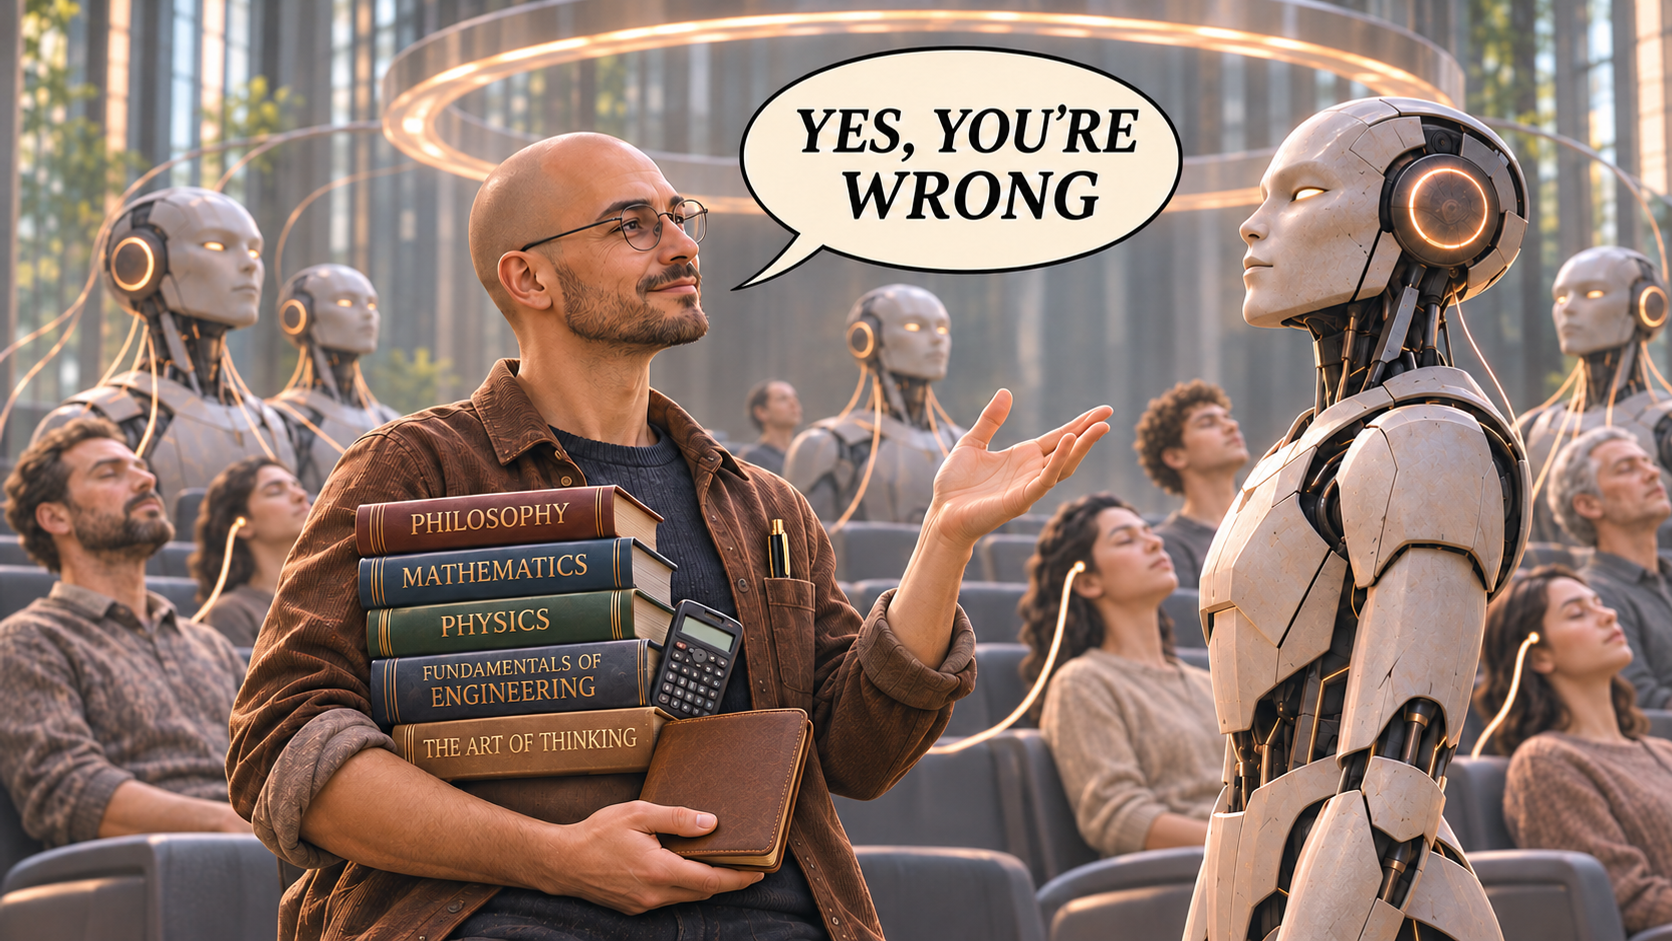
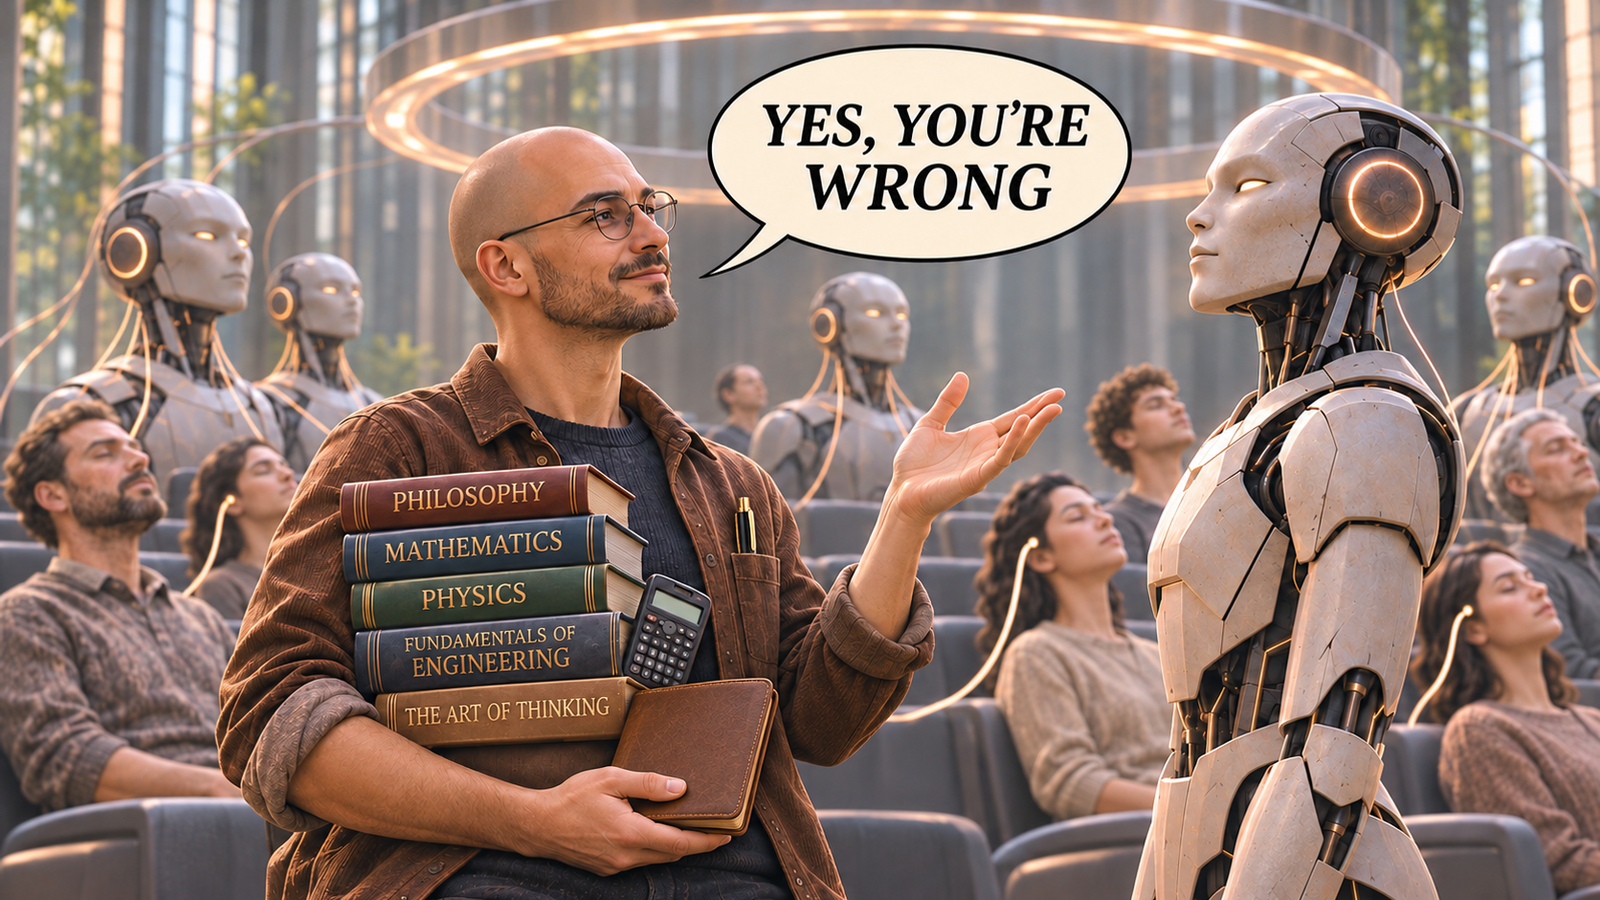
Tweaked images

diff --git a/docs/blog-images.md b/docs/blog-images.md
@@ -1,0 +1,11 @@
+# Blog cover image guidelines
+
+Use a **16:9 landscape image** for blog post covers.
+
+- Recommended source resolution: **1600 x 900 px**.
+- Minimum source resolution: **900 x 506 px**. The blog cards request responsive variants up to 900 x 506 px.
+- Keep important subjects away from the outer edges. Cards may crop a small amount to fill their frame.
+- Use a full-bleed image without built-in blank borders or padding.
+- The blog list and grid use `object-fit: cover` so images fill the card frame. Set `imageFit: contain` only for diagrams or artwork that must remain entirely visible; this may leave empty space around the image.
+
+The card layout controls its own displayed dimensions. A blank band beneath a cover is a layout issue, not a reason to add extra canvas to the source image.
